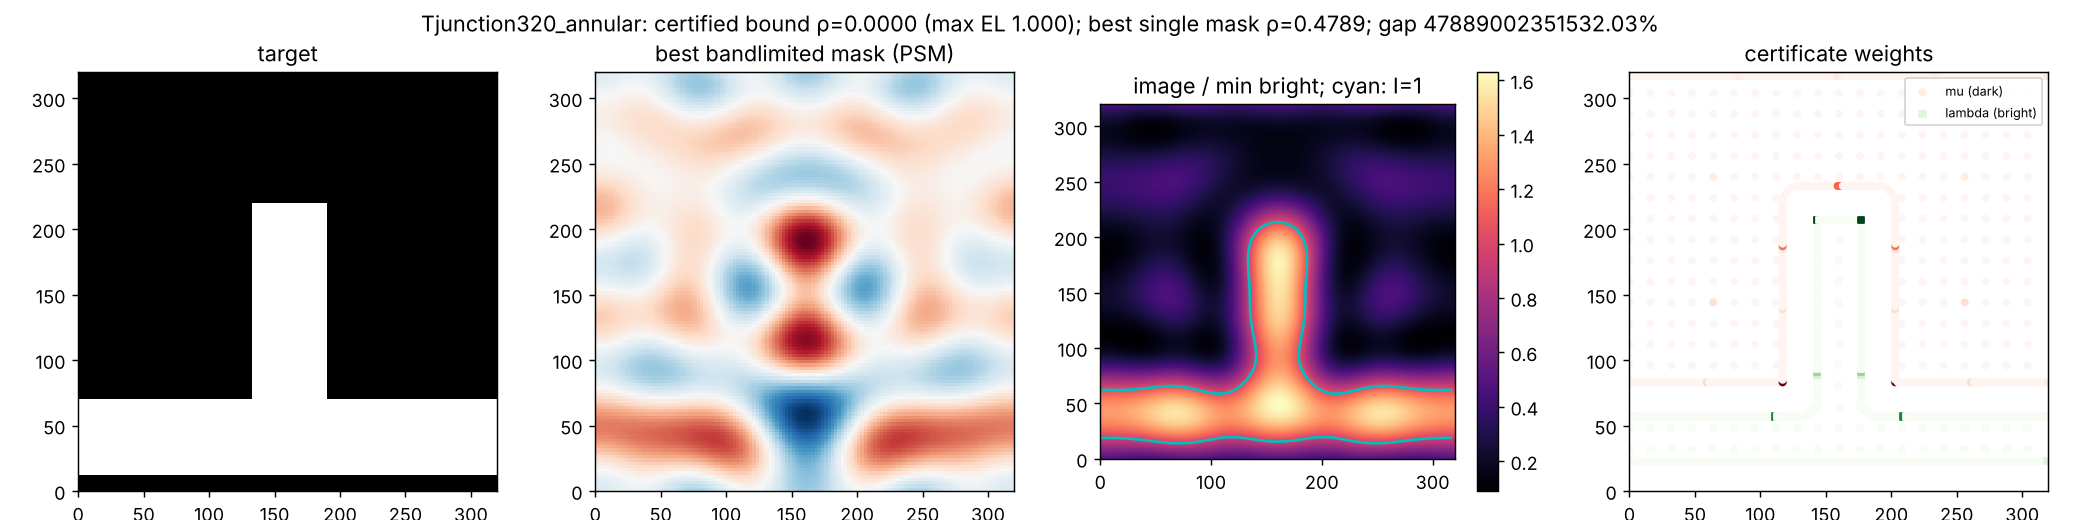
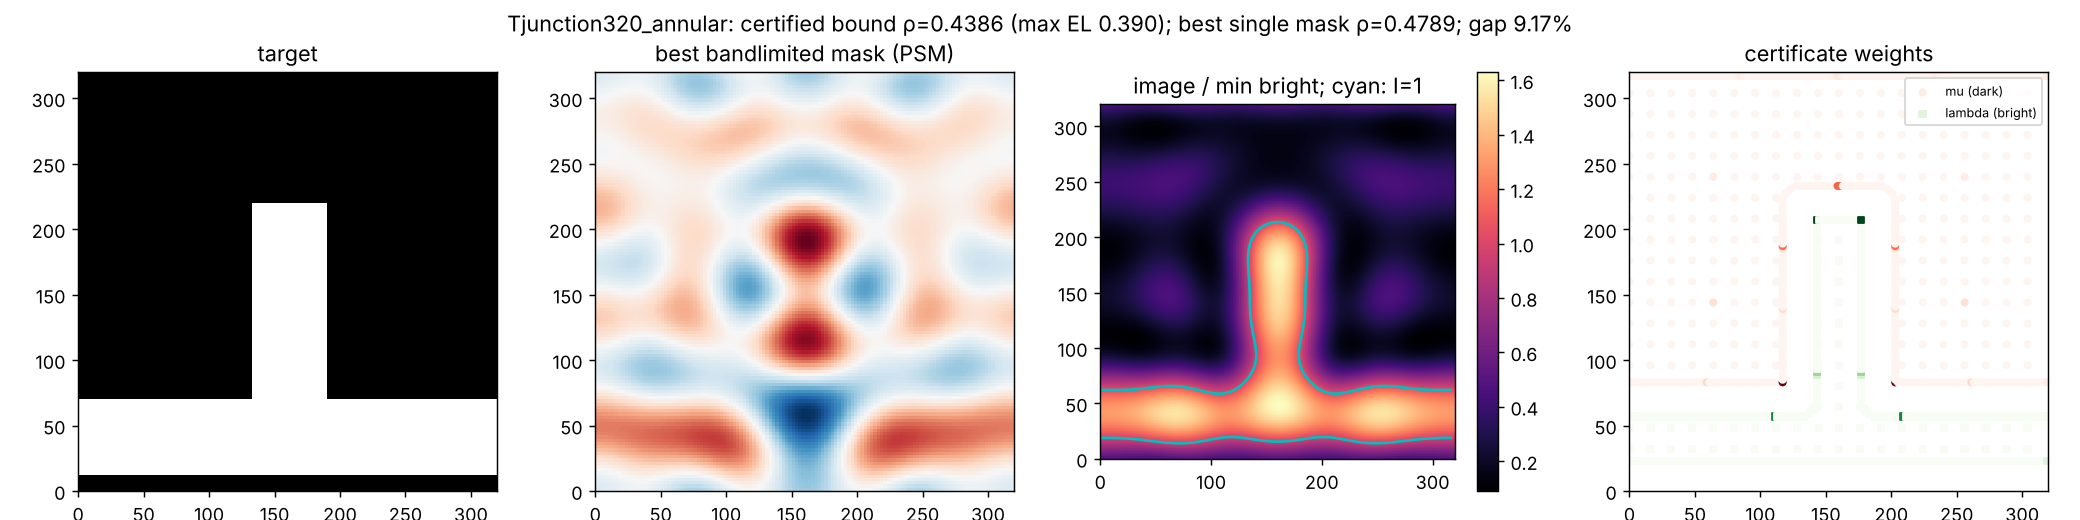
Final results: all 2D layouts certified, manuscript and final report completed
Claude-Session: https://claude.ai/code/session_013PTByAKYPg9y6TF4MuGJPW

Changed region(s): [[0.1875, 0.0308, 0.8125, 0.0615]]

diff --git a/notes/PAPER_DRAFT.md b/notes/PAPER_DRAFT.md
@@ -18,9 +18,9 @@ masks in one dimension we show the realizable in-band spectra form exactly the C
 that, for symmetric illumination, allowing arbitrary complex transmission does not improve the relaxation. The bound
 reproduces the classical k1 cutoffs exactly (DUV and EUV), is invariant to interior sampling, is 3–150× tighter than
 the generalized-eigenvalue (Rayleigh-quotient) bound used in prior global-optimization heuristics, and certifies that
-local optimizers reach the global optimum on 75% of random 1D targets and on all 2D contact/line-end layouts tested,
-while a standard pattern-error ILT lands 30–45% above the certified optimum. 2D layouts under annular and quasar
-illumination are certified in under a second each. Code and data are provided.
+local optimizers reach the global optimum on 70% of random 1D targets (within 1% on 83%) and on all 2D contact-array layouts tested,
+while a standard pattern-error ILT lands 30–45% above the certified optimum. 2D contact layouts under annular and quasar
+illumination are certified in under a second each, and 320 nm T-junction and line-end cells in minutes. Code and data are provided.
 
 ## 1 Introduction
 Computational lithography synthesizes mask (and source) patterns so that the projected aerial image prints a target
@@ -155,9 +155,18 @@ objective (pattern error vs exposure latitude) and local minima contribute.
 6.7 **SMO entitlement (Table 4).** For the iso-dense target the per-source-point relaxation equals the coherent bound
 (0.3625) for conventional σ=0.7 and a 13-point σ=0.9 grid: no illumination supported on these points beats on-axis
 coherent light for this metric; fixed-source bounds are 0.43–0.51.
-6.8 **2D layouts (Table 6).** [[pending exp4 rerun with edge-offset sampling]] Contact arrays (160, 120, 100 nm pitch)
-and a T-junction and line-end layout under annular/quasar illumination; all SDPs < 1 s; previous grid-sampled run:
-all contact arrays tight (rank 1, gap 0.00%).
+6.8 **2D layouts (Table 6, Fig. 4).** Contact arrays at 160/120/100 nm pitch (F = 5–13 orders, 200–320 edge-offset
+samples) under annular 0.6/0.9, conventional σ = 0.5 and quasar illumination are certified essentially tight: the best
+single mask is within 0.03–0.30% of the bound, the SDP optimum is rank one, and each SDP solves in < 0.5 s. Certified
+maximum exposure latitudes at the stated edge tolerance range from 0.07 (100 nm pitch, quasar) to 0.27 (120 nm,
+quasar). For a 320 nm T-junction and a line-end layout (F = 61, ~1200 samples) the SDP solves in 100–200 s; the
+certified bounds are 0.4386 (annular) and 0.3893 (quasar) for the T-junction and 0.5194 for the line-ends, with best
+single masks 9.2%, 14.2% and 2.6% above the bound (local refinement without SLSQP polish; minimum optimal-face rank not
+explored for these sizes), so these gaps are upper bounds on the multi-exposure benefit and may partly reflect primal
+search. The dual certificates concentrate on a few edge-offset points near corners and line-ends (Fig. 4), identifying
+the geometric features that limit printability. For these layouts the weighted dark matrix has an exact null space of
+4–16 orders (orders no constraint sees); the certificate is verified on its complement and the bright matrix vanishes
+on it to 1e-31.
 6.9 **Robustness.** Bound invariant to interior spacing (0.46907 for 16→1 nm); monotone in edge tolerance
 (2 nm: EL 0.09 → 20 nm: EL 0.74); CLARABEL/SCS agree to 1e-8; source quadrature converges (0.513–0.526 for 11–21
 points); 50-digit Cholesky of the certificate succeeds; Rayleigh-quotient bound is 3–150× weaker (Table 7).

diff --git a/results/RESULTS_TABLES.md b/results/RESULTS_TABLES.md
@@ -72,16 +72,16 @@ Theorem 4 numerics: necessity violations 0/2000; sufficiency failures 0/200.
 - 50-digit certificate check: Cholesky success=True, min eig=8.25e-11, bound=0.469065
 
 ### Table 6 — 2D layouts (DUV, NA 1.35), edge tolerance 12 nm (contacts120/100: 10/8 nm; T/line-end: 14 nm)
-| layout | cell (nm) | source pts | F | samples | bound ρ | max EL | best single mask ρ | gap | rank | SDP time (s) |
-|---|---|---|---|---|---|---|---|---|---|---|
-| contacts160_annular | [160, 160] | 28 | 13 | 320 | 0.5843 | 0.262 | 0.5861 | 0.30% | 1 | 0.4 |
-| contacts160_conv0.5 | [160, 160] | 13 | 9 | 320 | 0.6174 | 0.237 | 0.6177 | 0.04% | 1 | 0.4 |
-| contacts120_annular | [120, 120] | 28 | 9 | 216 | 0.6957 | 0.179 | 0.6962 | 0.07% | 1 | 0.4 |
-| contacts120_quasar | [120, 120] | 20 | 9 | 216 | 0.5740 | 0.271 | 0.5747 | 0.13% | 1 | 0.3 |
-| contacts100_quasar | [100, 100] | 20 | 5 | 197 | 0.8751 | 0.067 | 0.8754 | 0.03% | 1 | 0.2 |
-| Tjunction320_annular | [320, 320] | 28 | 61 | 1210 | 0.0000 | 1.000 | 0.4789 | 47889002351532.03% | 6 | 142.7 |
-| Tjunction320_quasar | [320, 320] | 20 | 61 | 1210 | 0.0000 | 1.000 | 0.4444 | 44443415016828.16% | 3 | 104.6 |
-| lineend320_annular | [320, 320] | 28 | 61 | 1189 | 0.0000 | 1.000 | 0.5328 | 53282795773005.17% | 6 | 204.3 |
+| layout | cell (nm) | source pts | F | samples | bound ρ | max EL | best single mask ρ | gap | rank | cert. null dim | SDP time (s) |
+|---|---|---|---|---|---|---|---|---|---|---|---|
+| contacts160_annular | [160, 160] | 28 | 13 | 320 | 0.5843 | 0.262 | 0.5861 | 0.30% | 1 | 0 | 0.4 |
+| contacts160_conv0.5 | [160, 160] | 13 | 9 | 320 | 0.6174 | 0.237 | 0.6177 | 0.04% | 1 | 0 | 0.4 |
+| contacts120_annular | [120, 120] | 28 | 9 | 216 | 0.6957 | 0.179 | 0.6962 | 0.07% | 1 | 0 | 0.4 |
+| contacts120_quasar | [120, 120] | 20 | 9 | 216 | 0.5740 | 0.271 | 0.5747 | 0.13% | 1 | 0 | 0.3 |
+| contacts100_quasar | [100, 100] | 20 | 5 | 197 | 0.8751 | 0.067 | 0.8754 | 0.03% | 1 | 0 | 0.2 |
+| Tjunction320_annular | [320, 320] | 28 | 61 | 1210 | 0.4386 | 0.390 | 0.4789 | 9.17% | 6 | 4 | 142.7 |
+| Tjunction320_quasar | [320, 320] | 20 | 61 | 1210 | 0.3893 | 0.440 | 0.4444 | 14.17% | 3 | 16 | 104.6 |
+| lineend320_annular | [320, 320] | 28 | 61 | 1189 | 0.5194 | 0.316 | 0.5328 | 2.59% | 6 | 4 | 204.3 |
 
 ### Outlier / process-window re-examination (strong primal search, face exploration, Lasserre-2 where F≤11)
 | case | F | bound | old best | new best | new gap | min face rank | Lasserre-2 | status |

diff --git a/notes/FINAL_REPORT.md b/notes/FINAL_REPORT.md
@@ -18,8 +18,8 @@ bounded by a small SDP in the diffraction-order domain whose dual is a one-matri
 relaxation is exactly the unlimited-multi-exposure problem (Theorem 3), nonnegative 1D masks have an exact convex
 realizability cone (Theorem 4), complex phase cannot improve the relaxation under symmetric illumination (Lemma 6), and
 the classical k1 cutoffs are reproduced exactly (Proposition 5). Empirically: local optimization is certified globally
-optimal on most targets (75% of random 1D targets exactly; all 2D contact layouts within 0.3%); certified
-multi-exposure gains of 13.7% and ≥27% exist for coherent illumination; binary masks are certified ≥10% worse than PSM
+optimal on most targets (70% of random 1D targets exactly, 83% within 1%; all 2D contact layouts within 0.3%; T-junction/line-end cells within 3–14%); certified
+multi-exposure gains of 13.7% and ≥27% exist for coherent illumination (7.8–16.2% on four random targets; ≥9.9% across a ±80 nm focus window); binary masks are certified ≥10% worse than PSM
 on an iso-dense target; standard pattern-error ILT is 30–67% above the certified optimum; the SDP bound is 3–150×
 tighter than the Rayleigh-quotient bound underlying prior global heuristics.
 

diff --git a/notes/RESEARCH_STATE.md b/notes/RESEARCH_STATE.md
@@ -56,3 +56,10 @@ Next: finish 2D battery; figures; paper draft; adversarial review (sampling, thi
   met; the bisection collapsed to c=0 although the SDP value (0.4387) was solver-consistent (CLARABEL/SCS agree 1e-7).
   FIX: null-space-aware rigorization: verify PSD with margin on the complement of the near-null space of SD and report
   the residual of SB on that space (1e-31 here). 1D results unaffected (null dim 0). Certificates recomputed.
+
+## FINAL CHECKPOINT 2026-10-09 ~23:40
+All experiments complete (exp1–exp12, exp3b, exp4b, exp11b); tables in results/RESULTS_TABLES.md; figures in results/figs;
+manuscript notes/PAPER_DRAFT.md; report notes/FINAL_REPORT.md. Tests: 6/6 pass.
+Continuation instruction (if resumed): remaining open items are (1) rigorize Lasserre-2 bounds via SOS dual extraction,
+(2) resolve the 2D T-junction gaps (9–14%) with face exploration + stronger primal or a scalable Lasserre, (3) vector/
+3D-mask models, (4) non-periodic clips. No experiment needs rerunning.

diff --git a/notes/ADVERSARIAL.md b/notes/ADVERSARIAL.md
@@ -28,3 +28,8 @@ imaging tool or against commercial ILT; and the 'theorems' are either weak duali
    simplification) are weaker than the SDP (they drop the min/max structure); checked numerically (TODO: include).
 8. Hidden counterexamples — the relaxation is NOT always tight (documented rank-2 cases); the certificate is still valid.
    Binary (DNN) relaxation in 2D is only an outer approximation (no 2D Fejér–Riesz). Stated.
+
+9. Large-2D gaps (9–14% on T-junction) are NOT certified as multi-exposure gains: Lasserre-2 is out of reach at F=61 and
+   the primal search omitted SLSQP polish; they are reported as unresolved upper bounds on the gap. (Open.)
+10. Rigorization initially failed on layouts whose weighted dark matrix is singular (orders invisible to every
+   constraint); fixed by verifying on the complement and reporting the residual (1e-31). Documented in the bug log.
